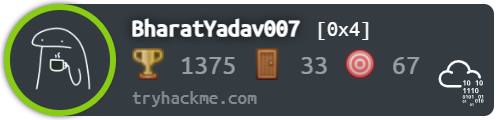
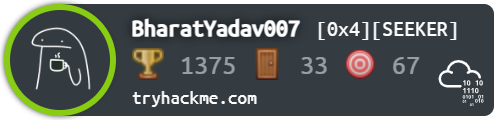
Update badge rank label and image asset
Updates the displayed TryHackMe rank in `index.html` from `[0x4]` to `[0x4][SEEKER]` and refreshes the `assets/tryhackme-badge.png` image so the generated badge visual matches the new rank text.

Changed region(s): [[0.7229, 0.175, 0.9337, 0.35], [0.241, 0.75, 0.5422, 0.9]]

diff --git a/index.html b/index.html
@@ -29,7 +29,7 @@
 
     <div class="thm_font" style="box-sizing: content-box; height: 50px; white-space: nowrap; overflow: hidden; text-overflow: ellipsis; padding-left: 8px; padding-top: 5px;">
       <p class="thm_line" style="margin-bottom: 3px">
-        <span class="thm_nickname">BharatYadav007</span> <span class="thm_rank">[0x4]</span><br />
+        <span class="thm_nickname">BharatYadav007</span> <span class="thm_rank">[0x4][SEEKER]</span><br />
       </p>
       <p class="thm_line" style="margin-bottom: 1px; display: flex; align-items: center">
         <img class="thm_icon thm_mr" src="https://assets.tryhackme.com/img/badges/trophy.png" alt="trophy" />